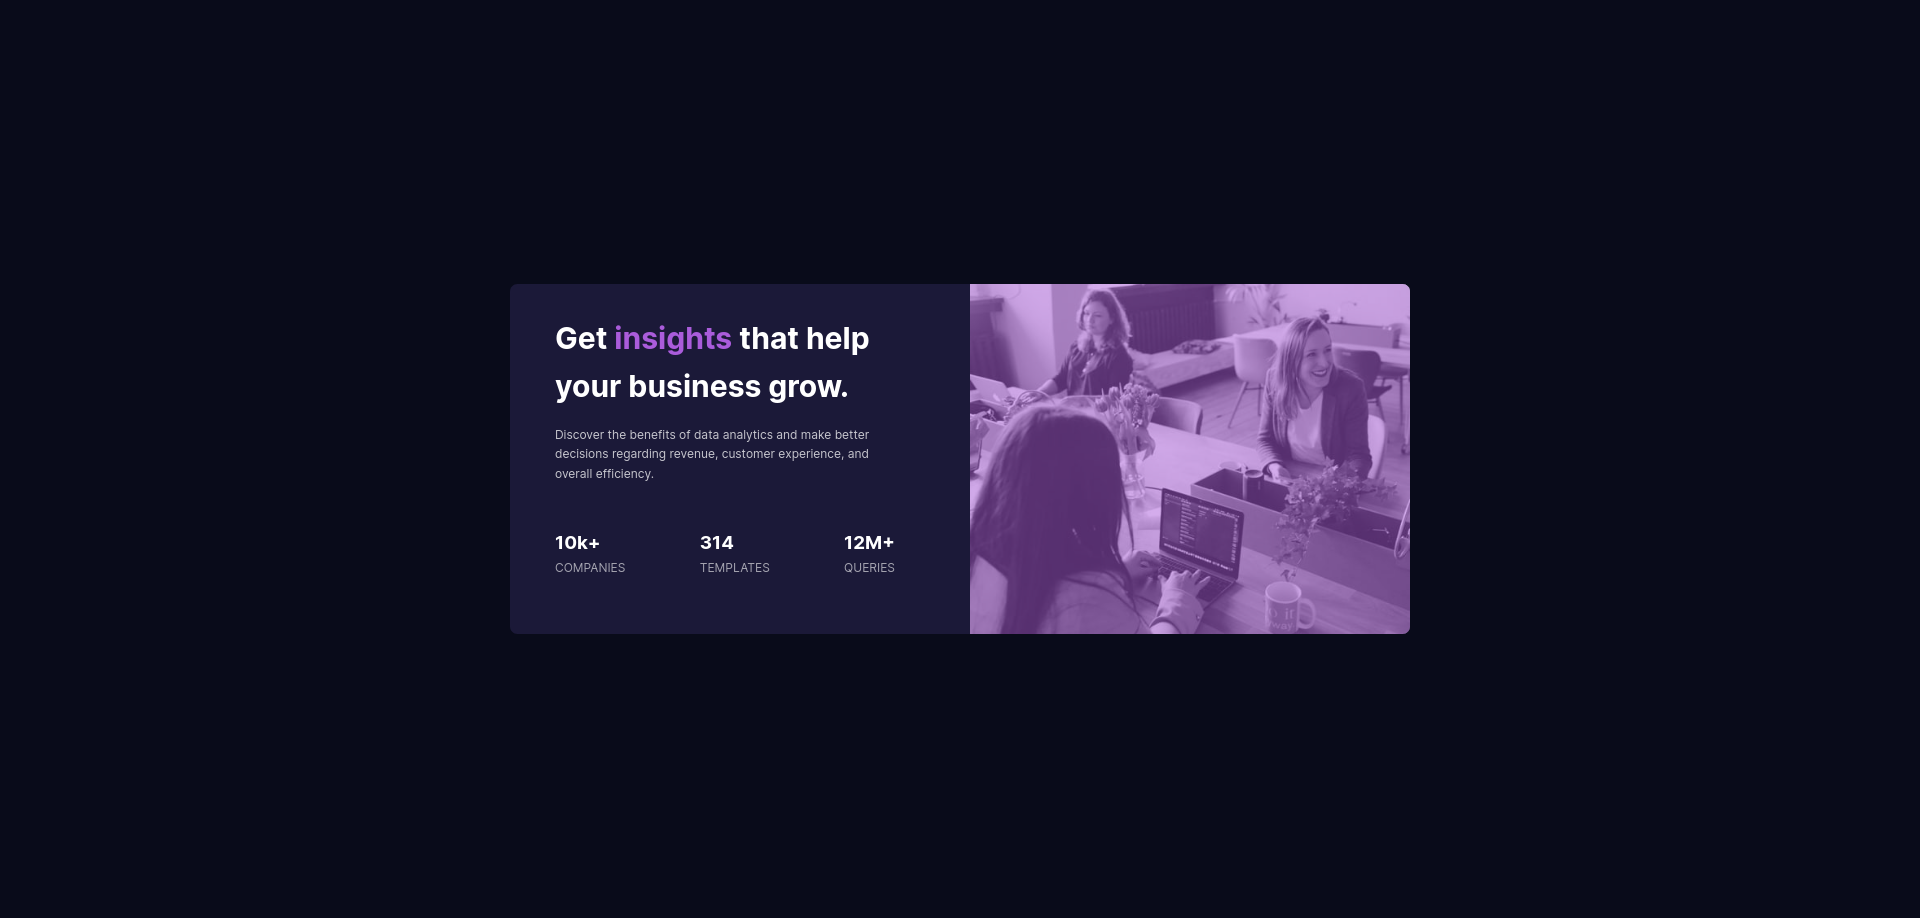
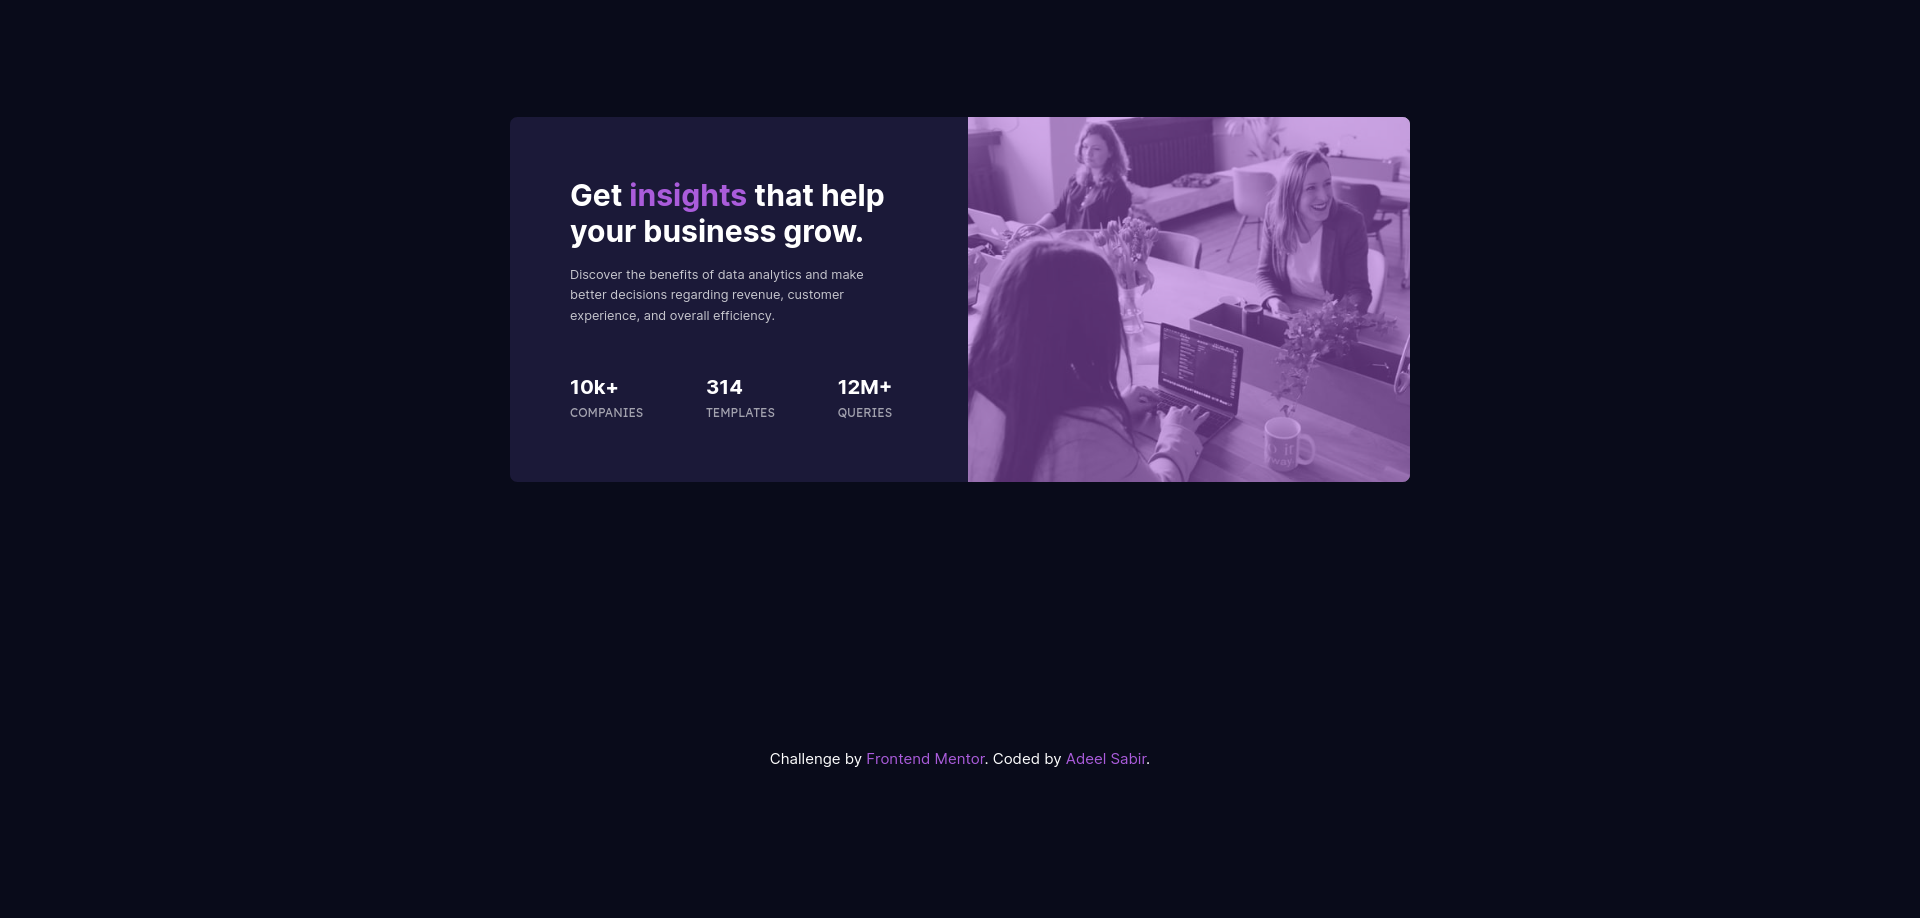
Fine-tuned styling, added comments, updated documentation

Changed region(s): [[0.25, 0.122, 0.75, 0.7015], [0.4062, 0.8235, 0.5938, 0.854]]

diff --git a/css/style.scss b/css/style.scss
@@ -1,3 +1,4 @@
+// Fonts
 @import url("https://fonts.googleapis.com/css2?family=Inter:wght@400;700&display=swap");
 @import url("https://fonts.googleapis.com/css2?family=Lexend+Deca&display=swap");
 
@@ -34,6 +35,7 @@ body {
   line-height: 1.6;
 }
 
+// Start with mobile-first design
 .card {
   background: $cardBackground;
   display: flex;
@@ -48,6 +50,7 @@ body {
   &__image {
     position: relative !important;
 
+    // This pseudo element allows adding overlay color on the image
     &::after {
       content: "";
       position: absolute;
@@ -80,13 +83,11 @@ body {
     margin: 0;
     padding: 0;
     height: 200px;
-    // border: 2px solid white;
     margin: 1em auto 0.1em auto;
   }
 
   &__headline {
     font-size: 2rem;
-    // border: 1px solid white;
     padding-bottom: 0.5em;
 
     span {
@@ -105,47 +106,80 @@ body {
   }
 
   li p {
+    font-family: $secondaryFont;
     text-transform: uppercase;
     font-size: 0.8rem;
     color: $statWhite;
   }
 }
 
+// Responsiveness for desktop version
 @media (min-width: 960px) {
+  // Image right, text left
   .card {
-    width: 90%;
+    width: 100%;
     flex-direction: row-reverse;
     text-align: left;
-    max-height: 350px;
+    max-height: 365px;
 
     &__image {
-      flex: 1 1 400px;
+      flex: 1 1 480px;
     }
 
     &__text {
-      margin: 2em 5em 2em 3em;
-      flex: 1 1 300px;
+      margin: 4em 5em 2em 4em;
+      flex: 1 1 350px;
       padding: 0;
+    }
+
+    // Added to match the solution template
+    &__headline {
+      line-height: 1.2;
     }
 
     &__description {
       padding: 0;
+      font-size: 0.85rem;
     }
 
+    // Display stats in row
     &__stats-list {
       flex-direction: row;
       justify-content: space-between;
       margin-top: 3em;
+
+      h3 {
+        font-size: 1.35rem;
+      }
     }
   }
+  // Hide mobile image
   .img-mobile {
     display: none !important;
-    width: 0%;
   }
 
+  // Display desktop image
   .img-desktop {
     display: block !important;
     width: 100%;
     height: auto;
+  }
+}
+
+.attribution {
+  margin: 2em auto;
+  a {
+    text-decoration: none;
+    color: $accent;
+
+    &:hover,
+    &:focus {
+      background: rgb(75, 74, 74);
+      opacity: 0.9;
+    }
+
+    &:visited {
+      color: hsla(199, 63%, 54%, 0.6);
+    }
   }
 }

diff --git a/css/style.css b/css/style.css
@@ -105,6 +105,7 @@ body {
 }
 
 .card li p {
+  font-family: "Lexend Deca", sans-serif;
   text-transform: uppercase;
   font-size: 0.8rem;
   color: rgba(255, 255, 255, 0.6);
@@ -112,28 +113,32 @@ body {
 
 @media (min-width: 960px) {
   .card {
-    width: 90%;
+    width: 100%;
     -webkit-box-orient: horizontal;
     -webkit-box-direction: reverse;
         -ms-flex-direction: row-reverse;
             flex-direction: row-reverse;
     text-align: left;
-    max-height: 350px;
+    max-height: 365px;
   }
   .card__image {
     -webkit-box-flex: 1;
-        -ms-flex: 1 1 400px;
-            flex: 1 1 400px;
+        -ms-flex: 1 1 480px;
+            flex: 1 1 480px;
   }
   .card__text {
-    margin: 2em 5em 2em 3em;
+    margin: 4em 5em 2em 4em;
     -webkit-box-flex: 1;
-        -ms-flex: 1 1 300px;
-            flex: 1 1 300px;
+        -ms-flex: 1 1 350px;
+            flex: 1 1 350px;
     padding: 0;
+  }
+  .card__headline {
+    line-height: 1.2;
   }
   .card__description {
     padding: 0;
+    font-size: 0.85rem;
   }
   .card__stats-list {
     -webkit-box-orient: horizontal;
@@ -145,14 +150,34 @@ body {
             justify-content: space-between;
     margin-top: 3em;
   }
+  .card__stats-list h3 {
+    font-size: 1.35rem;
+  }
   .img-mobile {
     display: none !important;
-    width: 0%;
   }
   .img-desktop {
     display: block !important;
     width: 100%;
     height: auto;
   }
+}
+
+.attribution {
+  margin: 2em auto;
+}
+
+.attribution a {
+  text-decoration: none;
+  color: #aa5cdb;
+}
+
+.attribution a:hover, .attribution a:focus {
+  background: #4b4a4a;
+  opacity: 0.9;
+}
+
+.attribution a:visited {
+  color: rgba(64, 165, 212, 0.6);
 }
 /*# sourceMappingURL=style.css.map */

diff --git a/index.html b/index.html
@@ -12,11 +12,13 @@
   
   <div class="card">
     
+    <!-- Image section -->
     <div class="card__image">
       <img class="img-mobile" src="./images/image-header-mobile.jpg" alt="Client conversing mobile">
       <img class="img-desktop" src="./images/image-header-desktop.jpg" alt="Client conversing mobile">
     </div>
   
+    <!-- Text section -->
     <div class="card__text">
       <h1 class="card__headline">Get <span>insights</span> that help your business grow.</h1>  
       <p class="card__description">Discover the benefits of data analytics and make better decisions regarding revenue, customer experience, and overall efficiency.</p>
@@ -36,6 +38,11 @@
       </ul>
     </div>   <!-- text-section ends -->
   </div> <!-- container ends -->
+
+  <div class="attribution">
+    Challenge by <a href="https://www.frontendmentor.io?ref=challenge" target="_blank">Frontend Mentor</a>. 
+    Coded by <a href="https://github.com/asab07" target="_blank">Adeel Sabir</a>.
+  </div>
 
 </body>
 </html>

diff --git a/README.md b/README.md
@@ -1,6 +1,6 @@
 # Frontend Mentor - Stats preview card component solution
 
-This is a solution to the [Stats preview card component challenge on Frontend Mentor](https://www.frontendmentor.io/challenges/stats-preview-card-component-8JqbgoU62). Frontend Mentor challenges help you improve your coding skills by building realistic projects. 
+This is a solution to the [Stats preview card component challenge on Frontend Mentor](https://www.frontendmentor.io/challenges/stats-preview-card-component-8JqbgoU62). Frontend Mentor challenges help you improve your coding skills by building realistic projects.
 
 ## Table of contents
 
@@ -20,6 +20,8 @@ This is a solution to the [Stats preview card component challenge on Frontend Me
 
 ## Overview
 
+This is a small exercise to build a responsive card component. The objective is to make the layout look as close as possible to the original template, on both the desktop and mobile devices. It is a beginner's exercise so only HTML and CSS are recommended.
+
 ### The challenge
 
 Users should be able to:
@@ -28,83 +30,57 @@ Users should be able to:
 
 ### Screenshot
 
-![](./screenshot.jpg)
-
-Add a screenshot of your solution. The easiest way to do this is to use Firefox to view your project, right-click the page and select "Take a Screenshot". You can choose either a full-height screenshot or a cropped one based on how long the page is. If it's very long, it might be best to crop it.
-
-Alternatively, you can use a tool like [FireShot](https://getfireshot.com/) to take the screenshot. FireShot has a free option, so you don't need to purchase it. 
-
-Then crop/optimize/edit your image however you like, add it to your project, and update the file path in the image above.
-
-**Note: Delete this note and the paragraphs above when you add your screenshot. If you prefer not to add a screenshot, feel free to remove this entire section.**
+![Desktop version](./screenshots/screenshot-desktop.jpg)
+![Mobile version](./screenshots/screenshot-desktop.jpg)
 
 ### Links
 
-- Solution URL: [Add solution URL here](https://your-solution-url.com)
-- Live Site URL: [Add live site URL here](https://your-live-site-url.com)
+- Solution URL: [GitHub Repo](https://github.com/asab07/responsive-stats-card-1)
+- Live Site URL: [Live site](https://your-live-site-url.com)
 
 ## My process
+
+**1. Plan:** I started out by looked at some card examples built in plain CSS, without using any frameworks.
+
+**2. Design:** The design phase did take much time since the design basis and the assets were already available through the solution template.
+
+**3. Development:** I built the card using HTML and CSS. I used SASS to facilitate the workflow and get some practice in it. I tested the website on Google Chrome and Firefox at different viewports.
 
 ### Built with
 
 - Semantic HTML5 markup
 - CSS custom properties
 - Flexbox
-- CSS Grid
+- SASS
 - Mobile-first workflow
-- [React](https://reactjs.org/) - JS library
-- [Next.js](https://nextjs.org/) - React framework
-- [Styled Components](https://styled-components.com/) - For styles
-
-**Note: These are just examples. Delete this note and replace the list above with your own choices**
 
 ### What I learned
 
-Use this section to recap over some of your major learnings while working through this project. Writing these out and providing code samples of areas you want to highlight is a great way to reinforce your own knowledge.
+I spent a lot of time initially to make the mobile version as close as possible to the provided template. This meant fine-tuning the element margins, paddings, font sizes, as well as choice of scales.
 
-To see how you can add code snippets, see below:
+_The lesson learnt_: try and make the design look close to the template, but not necessarily identical. It would have saved me some time, and the fine tuning could have been done at the end.
 
-```html
-<h1>Some HTML code I'm proud of</h1>
-```
-```css
-.proud-of-this-css {
-  color: papayawhip;
-}
-```
-```js
-const proudOfThisFunc = () => {
-  console.log('🎉')
-}
-```
+Another mistake I made, that cost me some additional time, was to try and accomplish this in as few lines of code as possible, especially in the CSS. For instance, I had originally intended to do it without using media queries, and there are some clever solutions out there, such as the [Media Query-less Responsive Card Component](https://css-tricks.com/how-to-make-a-media-query-less-card-component/). However, is best to keep things simple when you are starting out, and especially for simple projects.
 
-If you want more help with writing markdown, we'd recommend checking out [The Markdown Guide](https://www.markdownguide.org/) to learn more.
-
-**Note: Delete this note and the content within this section and replace with your own learnings.**
+_The lesson learned_: use textbook knowledge unless you have a reason not to, especially in the beginning.
 
 ### Continued development
 
-Use this section to outline areas that you want to continue focusing on in future projects. These could be concepts you're still not completely comfortable with or techniques you found useful that you want to refine and perfect.
+The two main ways I'd like to redo this project are:
 
-**Note: Delete this note and the content within this section and replace with your own plans for continued development.**
+- Without using any media queries
+- Using grid instead of flex-box
 
 ### Useful resources
 
-- [Example resource 1](https://www.example.com) - This helped me for XYZ reason. I really liked this pattern and will use it going forward.
-- [Example resource 2](https://www.example.com) - This is an amazing article which helped me finally understand XYZ. I'd recommend it to anyone still learning this concept.
-
-**Note: Delete this note and replace the list above with resources that helped you during the challenge. These could come in handy for anyone viewing your solution or for yourself when you look back on this project in the future.**
+- [Kevin Powell's Responsive CSS Card Design](https://www.youtube.com/watch?v=51DbAwcmqD8&t=625s) - Kevin's video helped me understand the mobile-first workflow and design a responsive card. I really liked teaching style and explanations and would recommend his channel to others.
+- [CSS Flexbox Guide](https://css-tricks.com/snippets/css/a-guide-to-flexbox/) - This is a great guide to understanding CSS Flexbox - an amazing article with visual aids and examples. I'd recommend it to anyone still learning this concept.
 
 ## Author
 
-- Website - [Add your name here](https://www.your-site.com)
-- Frontend Mentor - [@yourusername](https://www.frontendmentor.io/profile/yourusername)
-- Twitter - [@yourusername](https://www.twitter.com/yourusername)
-
-**Note: Delete this note and add/remove/edit lines above based on what links you'd like to share.**
+- Website - [Adeel Sabir](https://github.com/asab07)
+- Frontend Mentor - [@asab07](https://www.frontendmentor.io/profile/asab07)
 
 ## Acknowledgments
 
-This is where you can give a hat tip to anyone who helped you out on this project. Perhaps you worked in a team or got some inspiration from someone else's solution. This is the perfect place to give them some credit.
-
-**Note: Delete this note and edit this section's content as necessary. If you completed this challenge by yourself, feel free to delete this section entirely.**
+I would like to thank the team and Frontendmentor.io for sharing their knowledge and providing an excellent platform to new learners.
